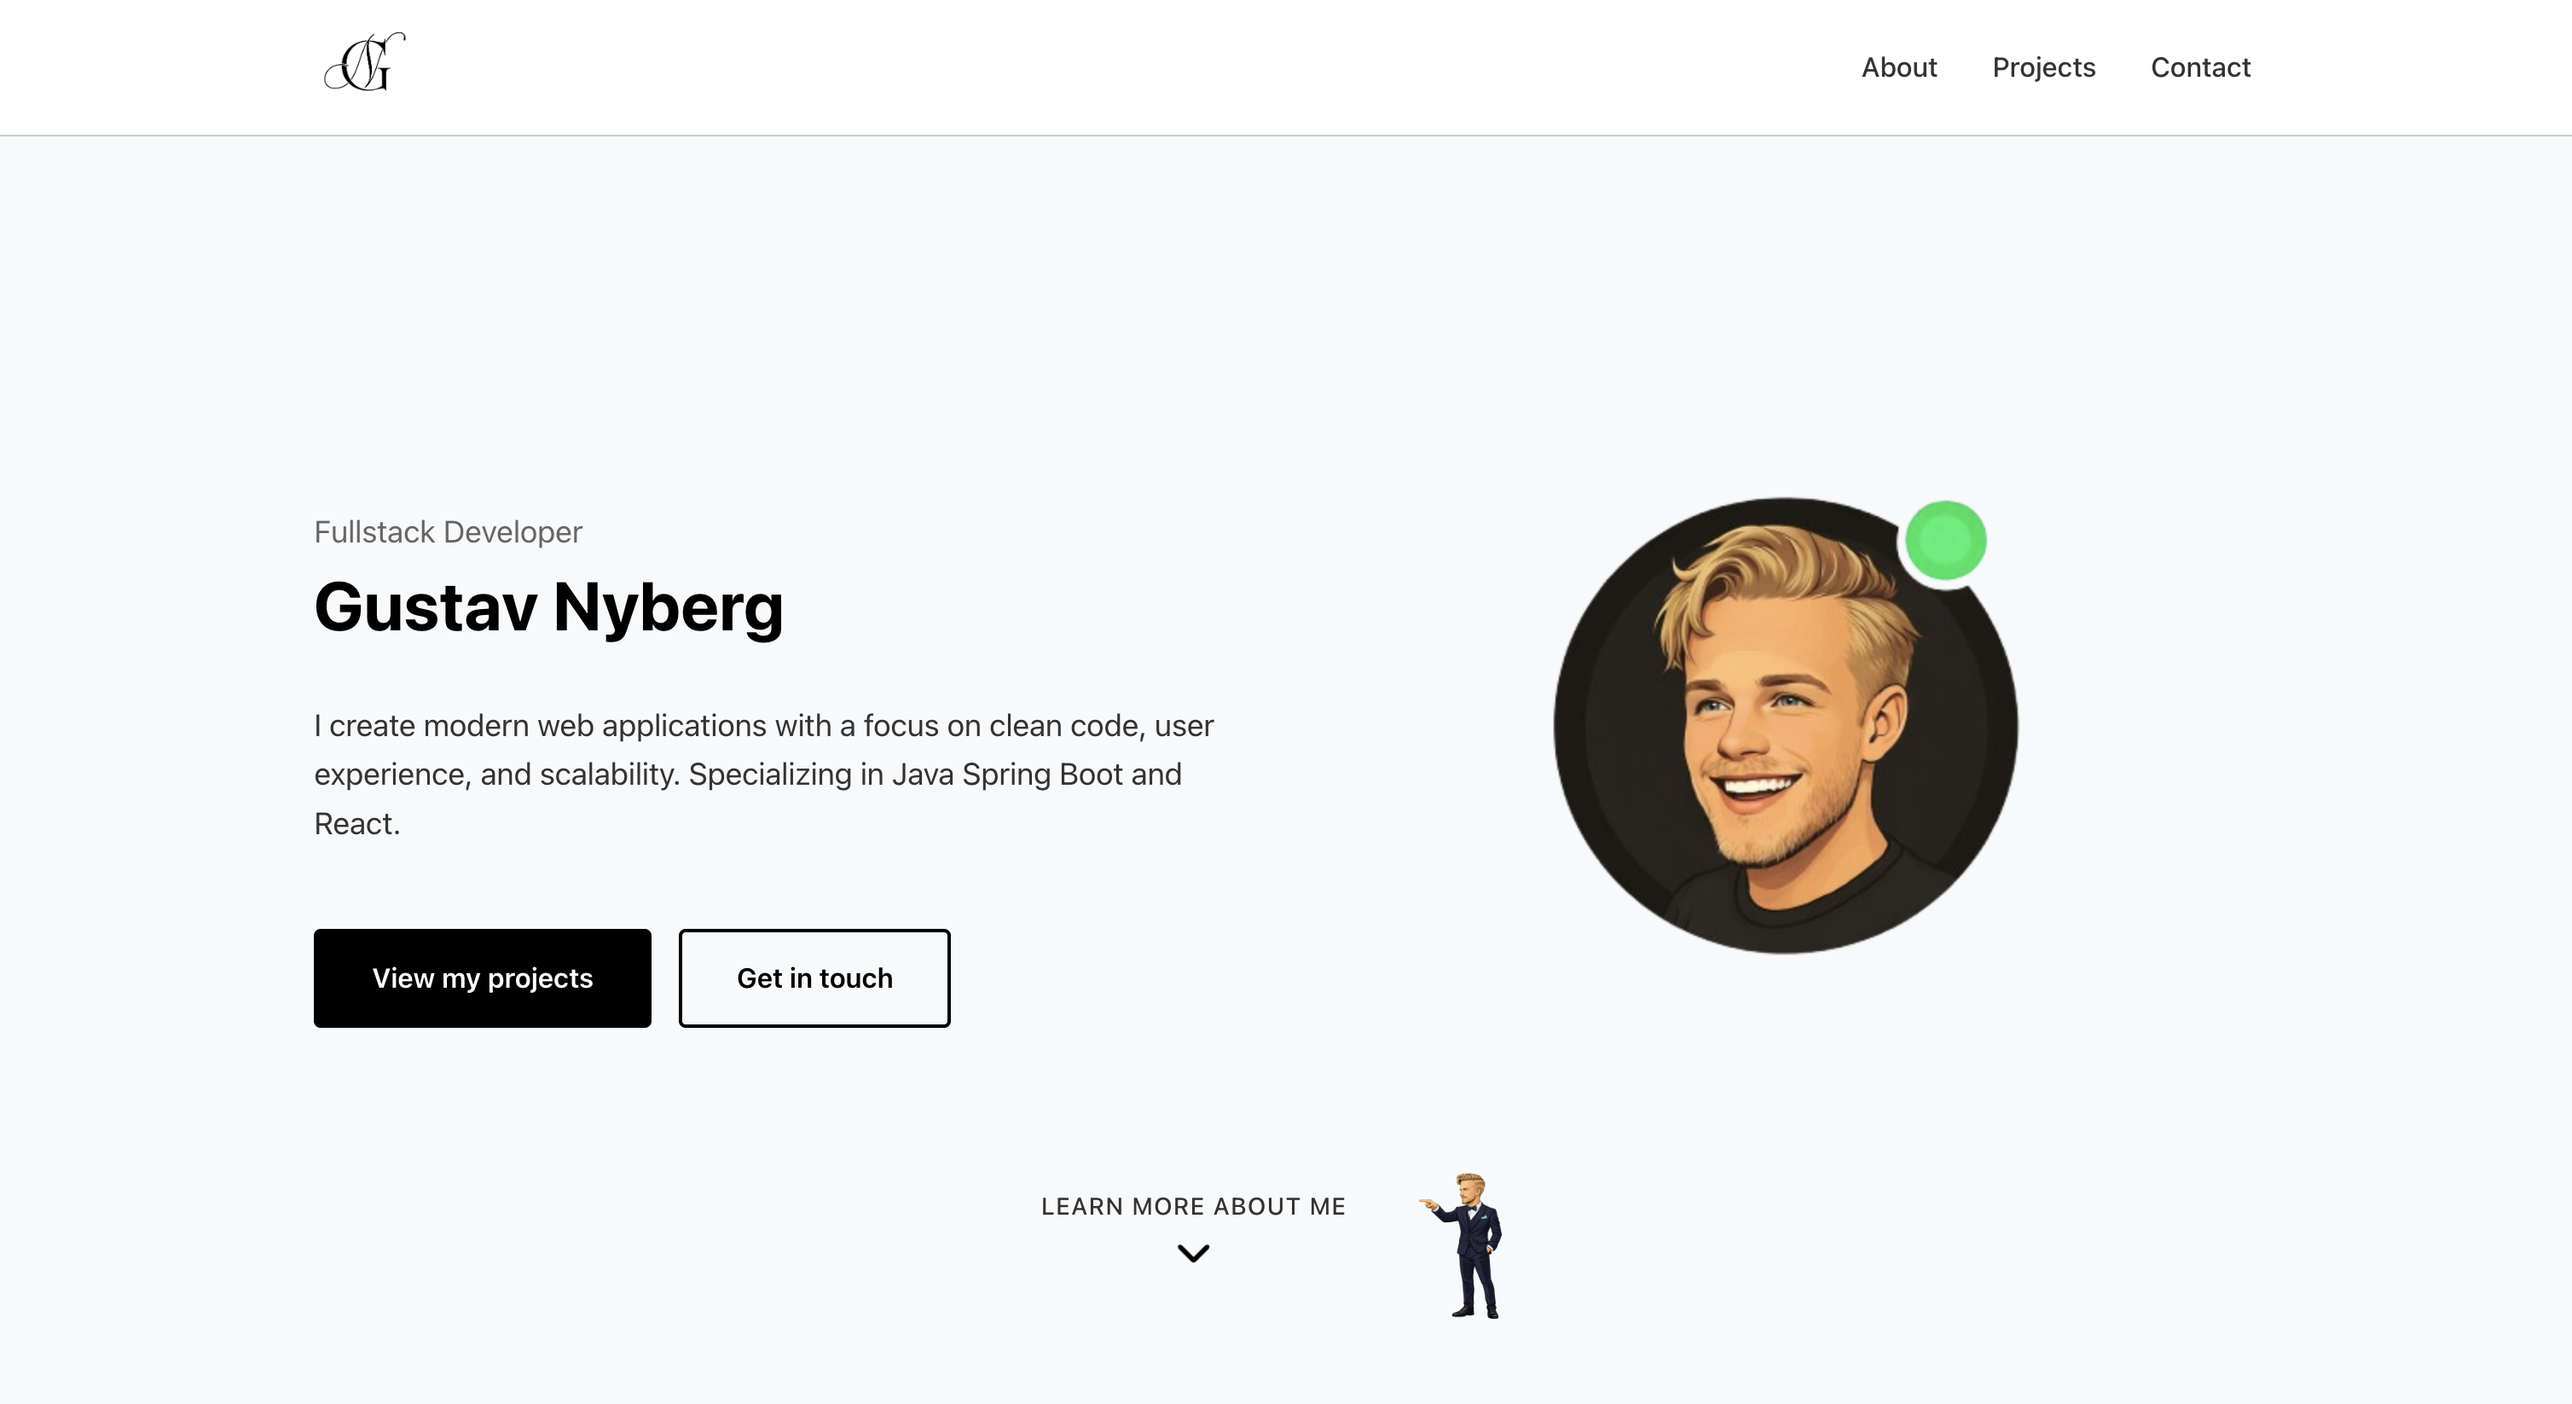
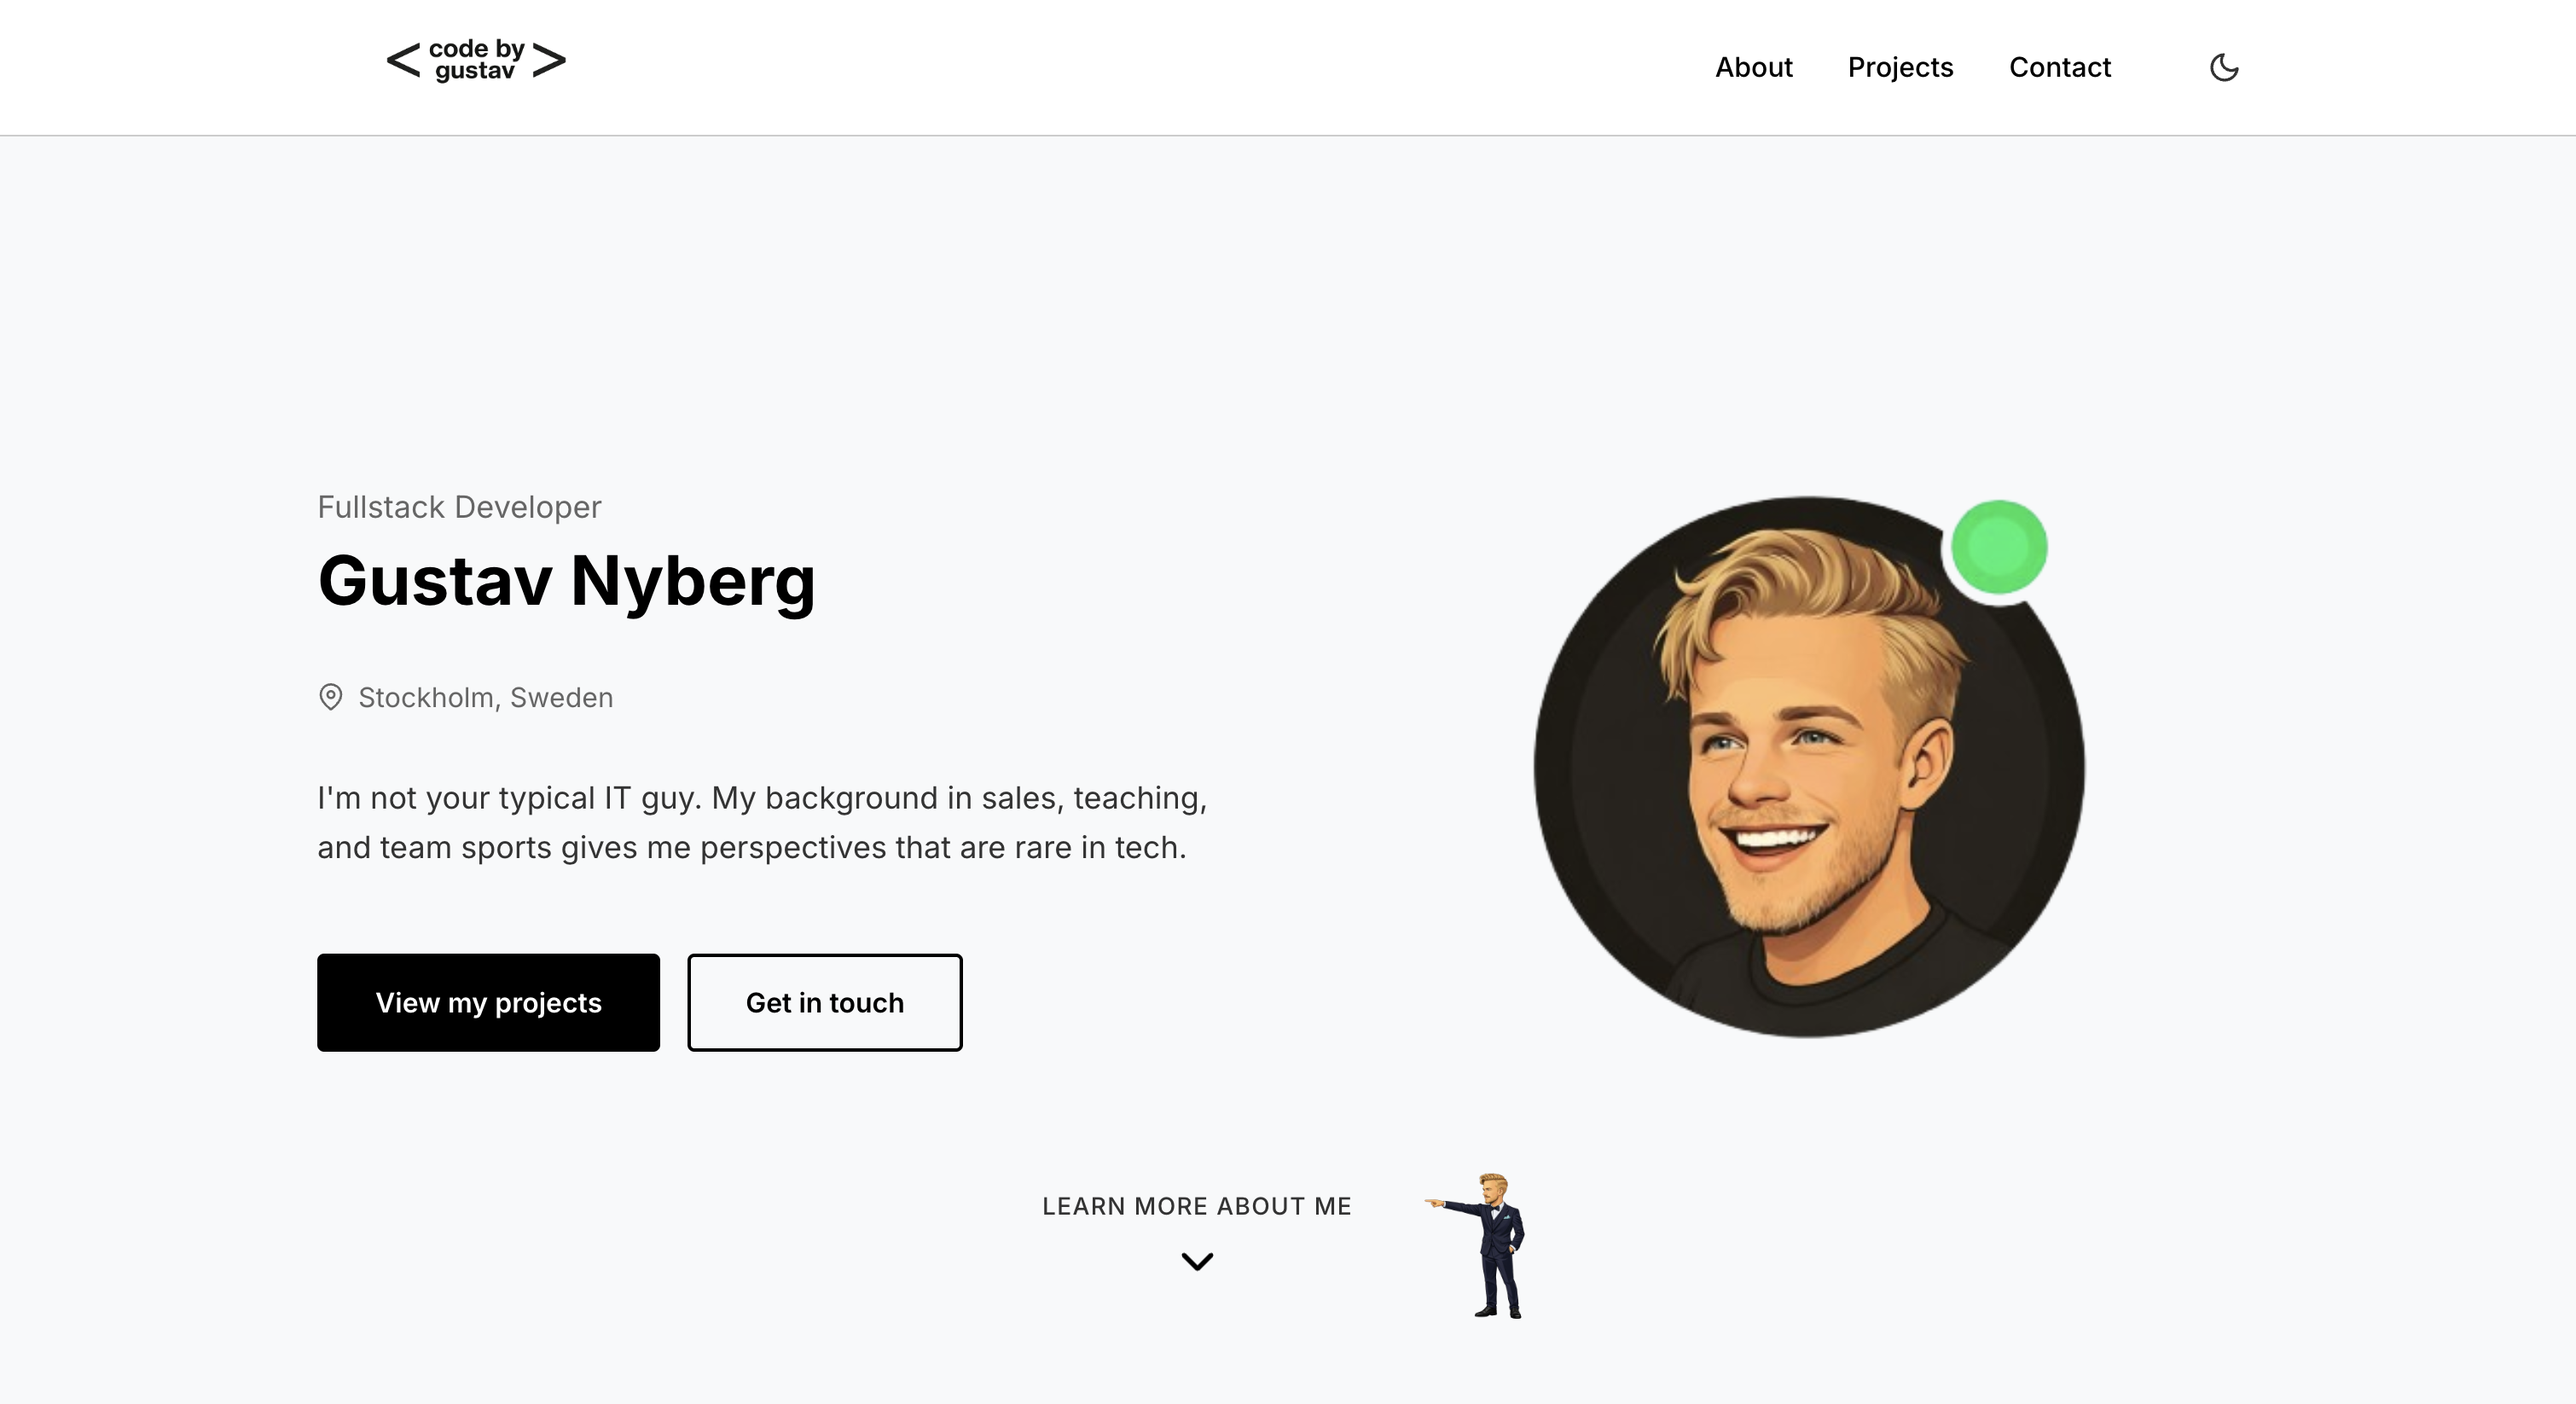
Uppdatera README med nya screenshots och bildstorlekar
- Ändra bilder till HTML-format för att kontrollera storlek
- Lägg till nya screenshots (dark mode, tech stack)
- Visa mobilbilder två per rad
- Lägg till dark mode i funktionslistan

diff --git a/README.md b/README.md
@@ -8,19 +8,46 @@ Fullstack portfolio-webbplats byggd som examensarbete för Javautvecklare-utbild
 
 ### Desktop
 
-![About Hero](docs/screenshots/about-hero.png)
-![About Text](docs/screenshots/about-text.png)
-![Projects](docs/screenshots/projects.png)
-![Contact](docs/screenshots/contact.png)
+<p>
+  <img src="docs/screenshots/about-hero.png" alt="About Hero" width="600">
+</p>
+
+<p>
+  <img src="docs/screenshots/about-hero-dark.png" alt="About Hero Dark Mode" width="600">
+</p>
+
+<p>
+  <img src="docs/screenshots/about-text.png" alt="About Text" width="600">
+</p>
+
+<p>
+  <img src="docs/screenshots/projects.png" alt="Projects" width="600">
+</p>
+
+<p>
+  <img src="docs/screenshots/projects-tech-stack.png" alt="Projects Tech Stack" width="600">
+</p>
+
+<p>
+  <img src="docs/screenshots/contact.png" alt="Contact" width="600">
+</p>
 
 ### Mobil
 
-![About Hero Mobile](docs/screenshots/about-hero-mobile.PNG)
-![About Text Mobile](docs/screenshots/about-text-mobile.PNG)
-![Projects Mobile](docs/screenshots/projects-mobile.PNG)
-![Projects GitHub Activity Mobile](docs/screenshots/projects-gha-mobile.PNG)
-![Contact Social Media Mobile](docs/screenshots/contact-sm-mobile.PNG)
-![Contact Mail Mobile](docs/screenshots/contact-mail-mobile.PNG)
+<p>
+  <img src="docs/screenshots/about-hero-mobile.PNG" alt="About Hero Mobile" width="250">
+  <img src="docs/screenshots/about-text-mobile.PNG" alt="About Text Mobile" width="250">
+</p>
+
+<p>
+  <img src="docs/screenshots/projects-mobile.PNG" alt="Projects Mobile" width="250">
+  <img src="docs/screenshots/projects-gha-mobile.PNG" alt="Projects GitHub Activity Mobile" width="250">
+</p>
+
+<p>
+  <img src="docs/screenshots/contact-sm-mobile.PNG" alt="Contact Social Media Mobile" width="250">
+  <img src="docs/screenshots/contact-mail-mobile.PNG" alt="Contact Mail Mobile" width="250">
+</p>
 
 ---
 
@@ -33,7 +60,7 @@ Denna portfolio syftar till att visa min kompetens som fullstack-utvecklare för
 **Frontend**
 - React 18
 - React Router
-- CSS 
+- CSS
 - Vercel (hosting)
 
 **Backend**
@@ -51,6 +78,7 @@ Denna portfolio syftar till att visa min kompetens som fullstack-utvecklare för
 ## Funktioner
 
 - Responsiv design (mobile-first)
+- Dark mode
 - Kontaktformulär med asynkron meddelandehantering via RabbitMQ
 - Email-notifikationer via MailerSend API
 - Optimistiskt UI för snabb användarfeedback
